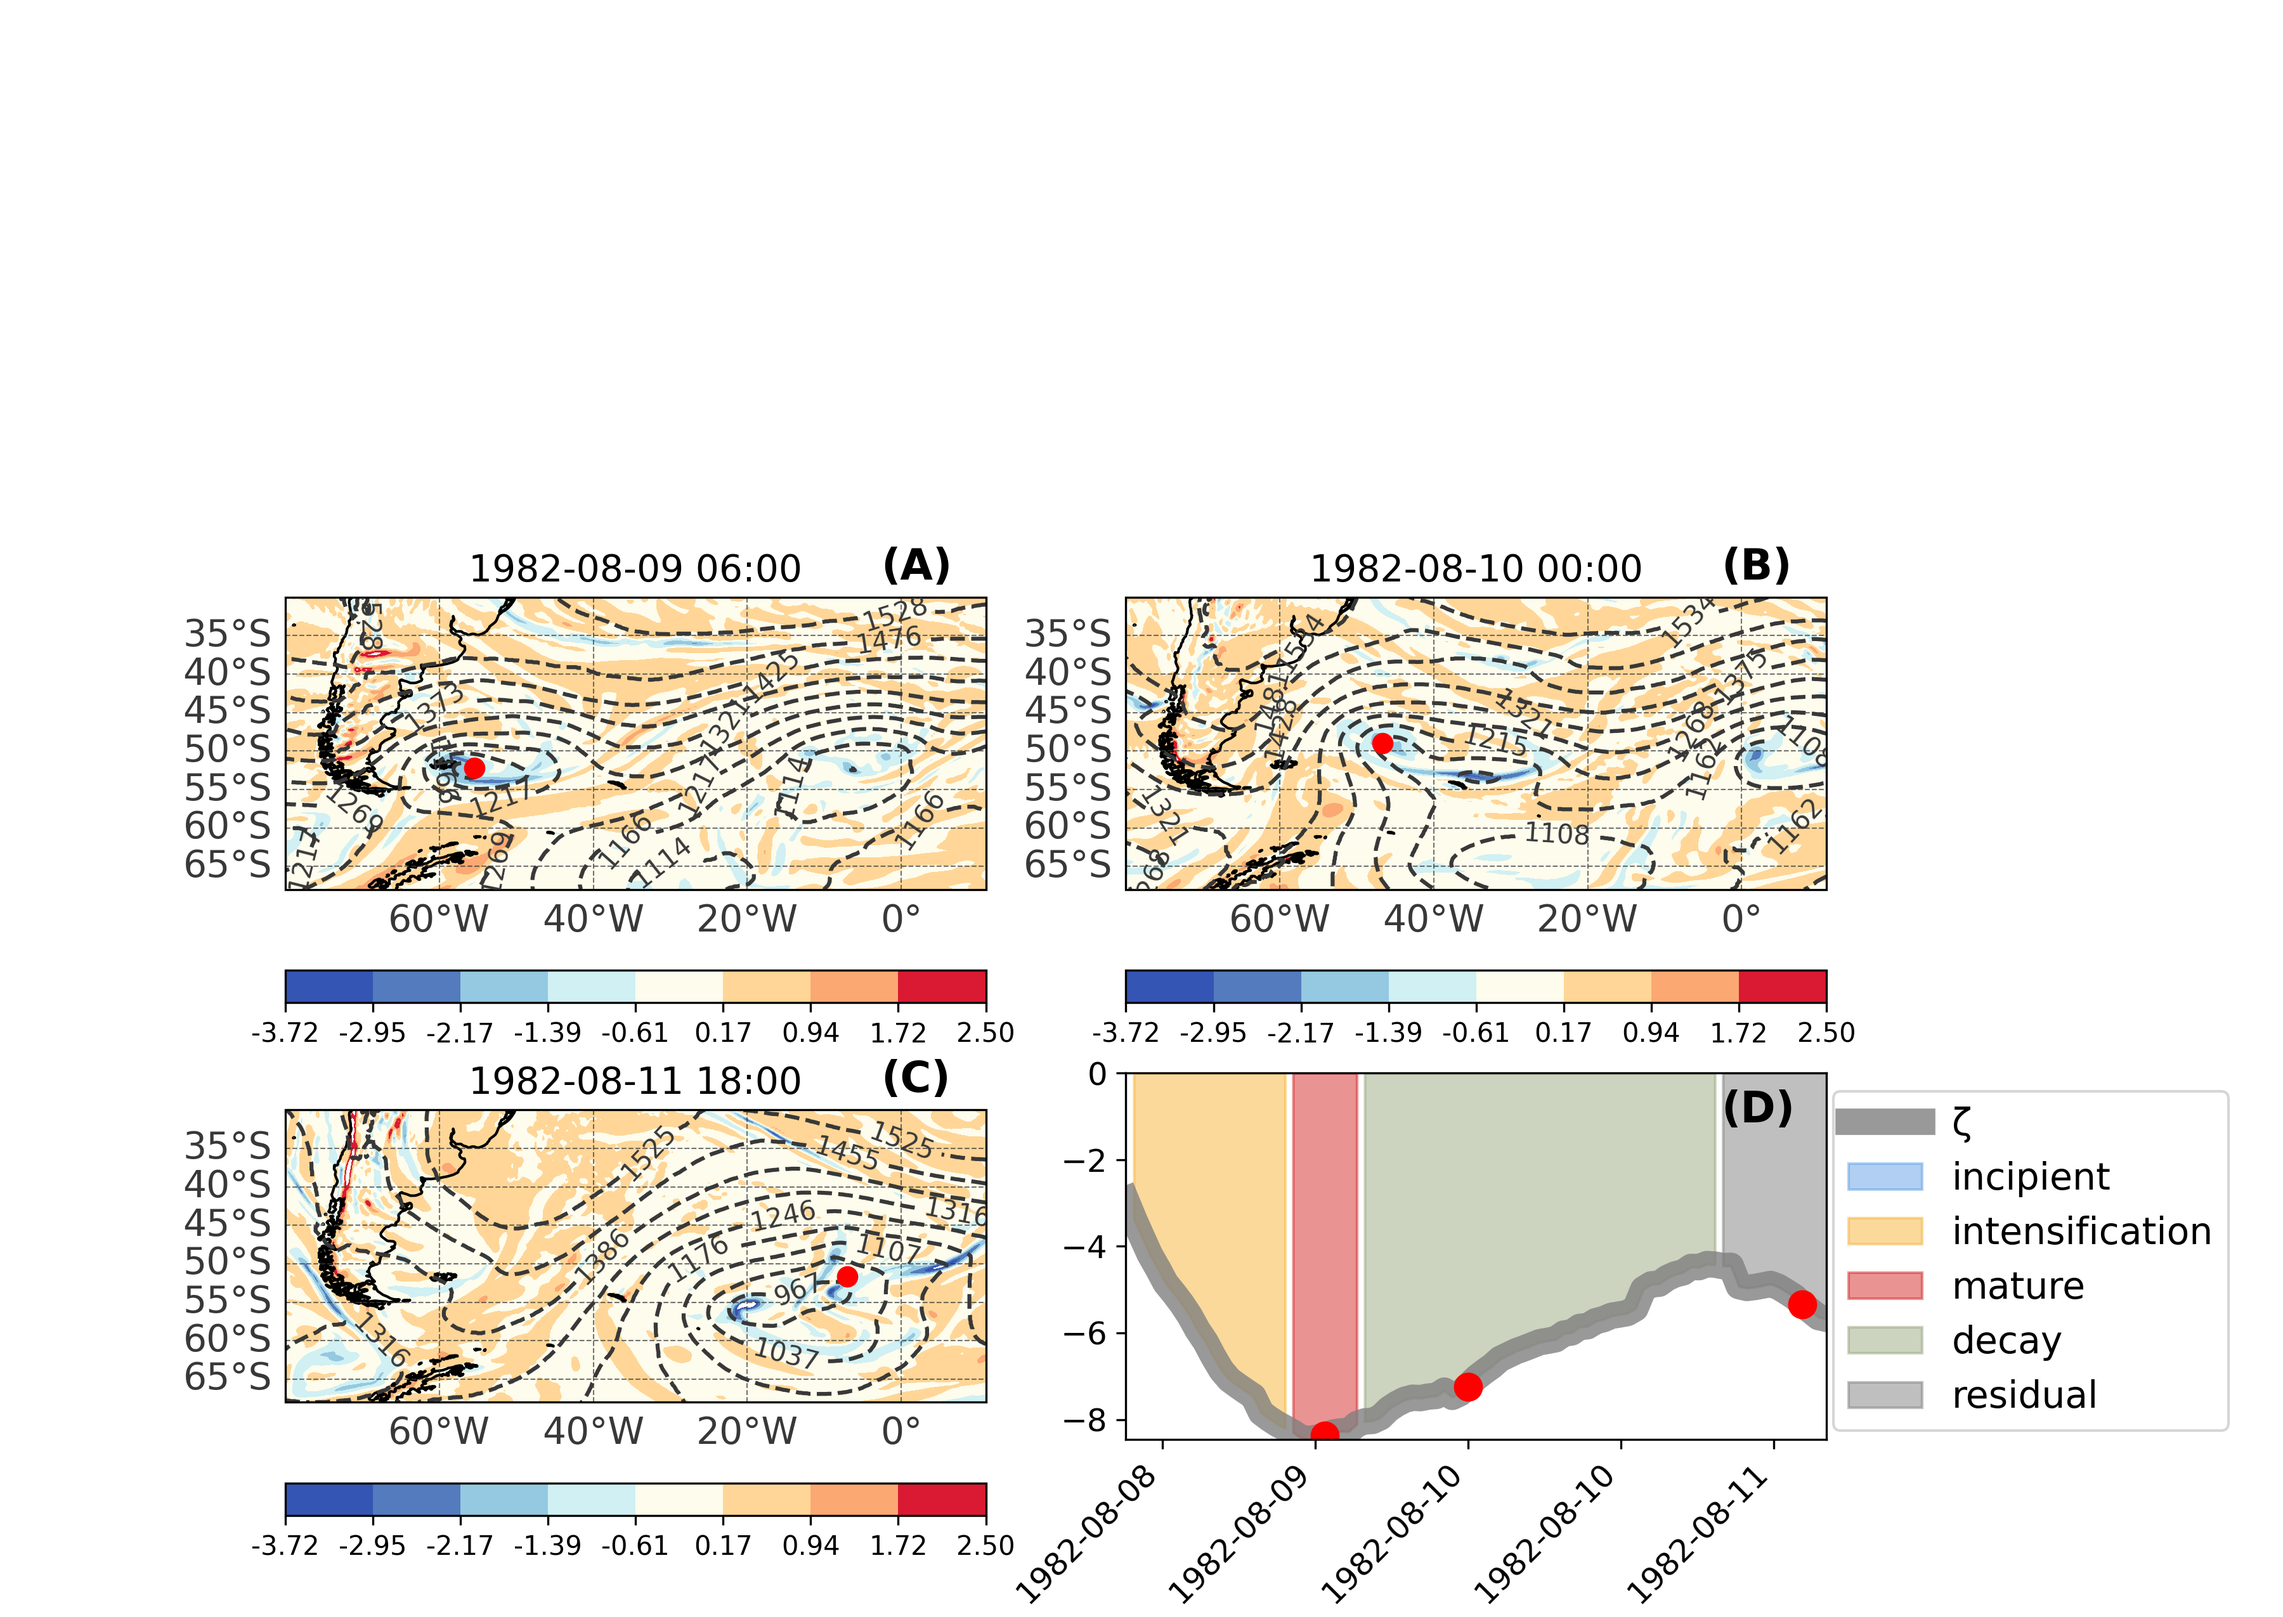
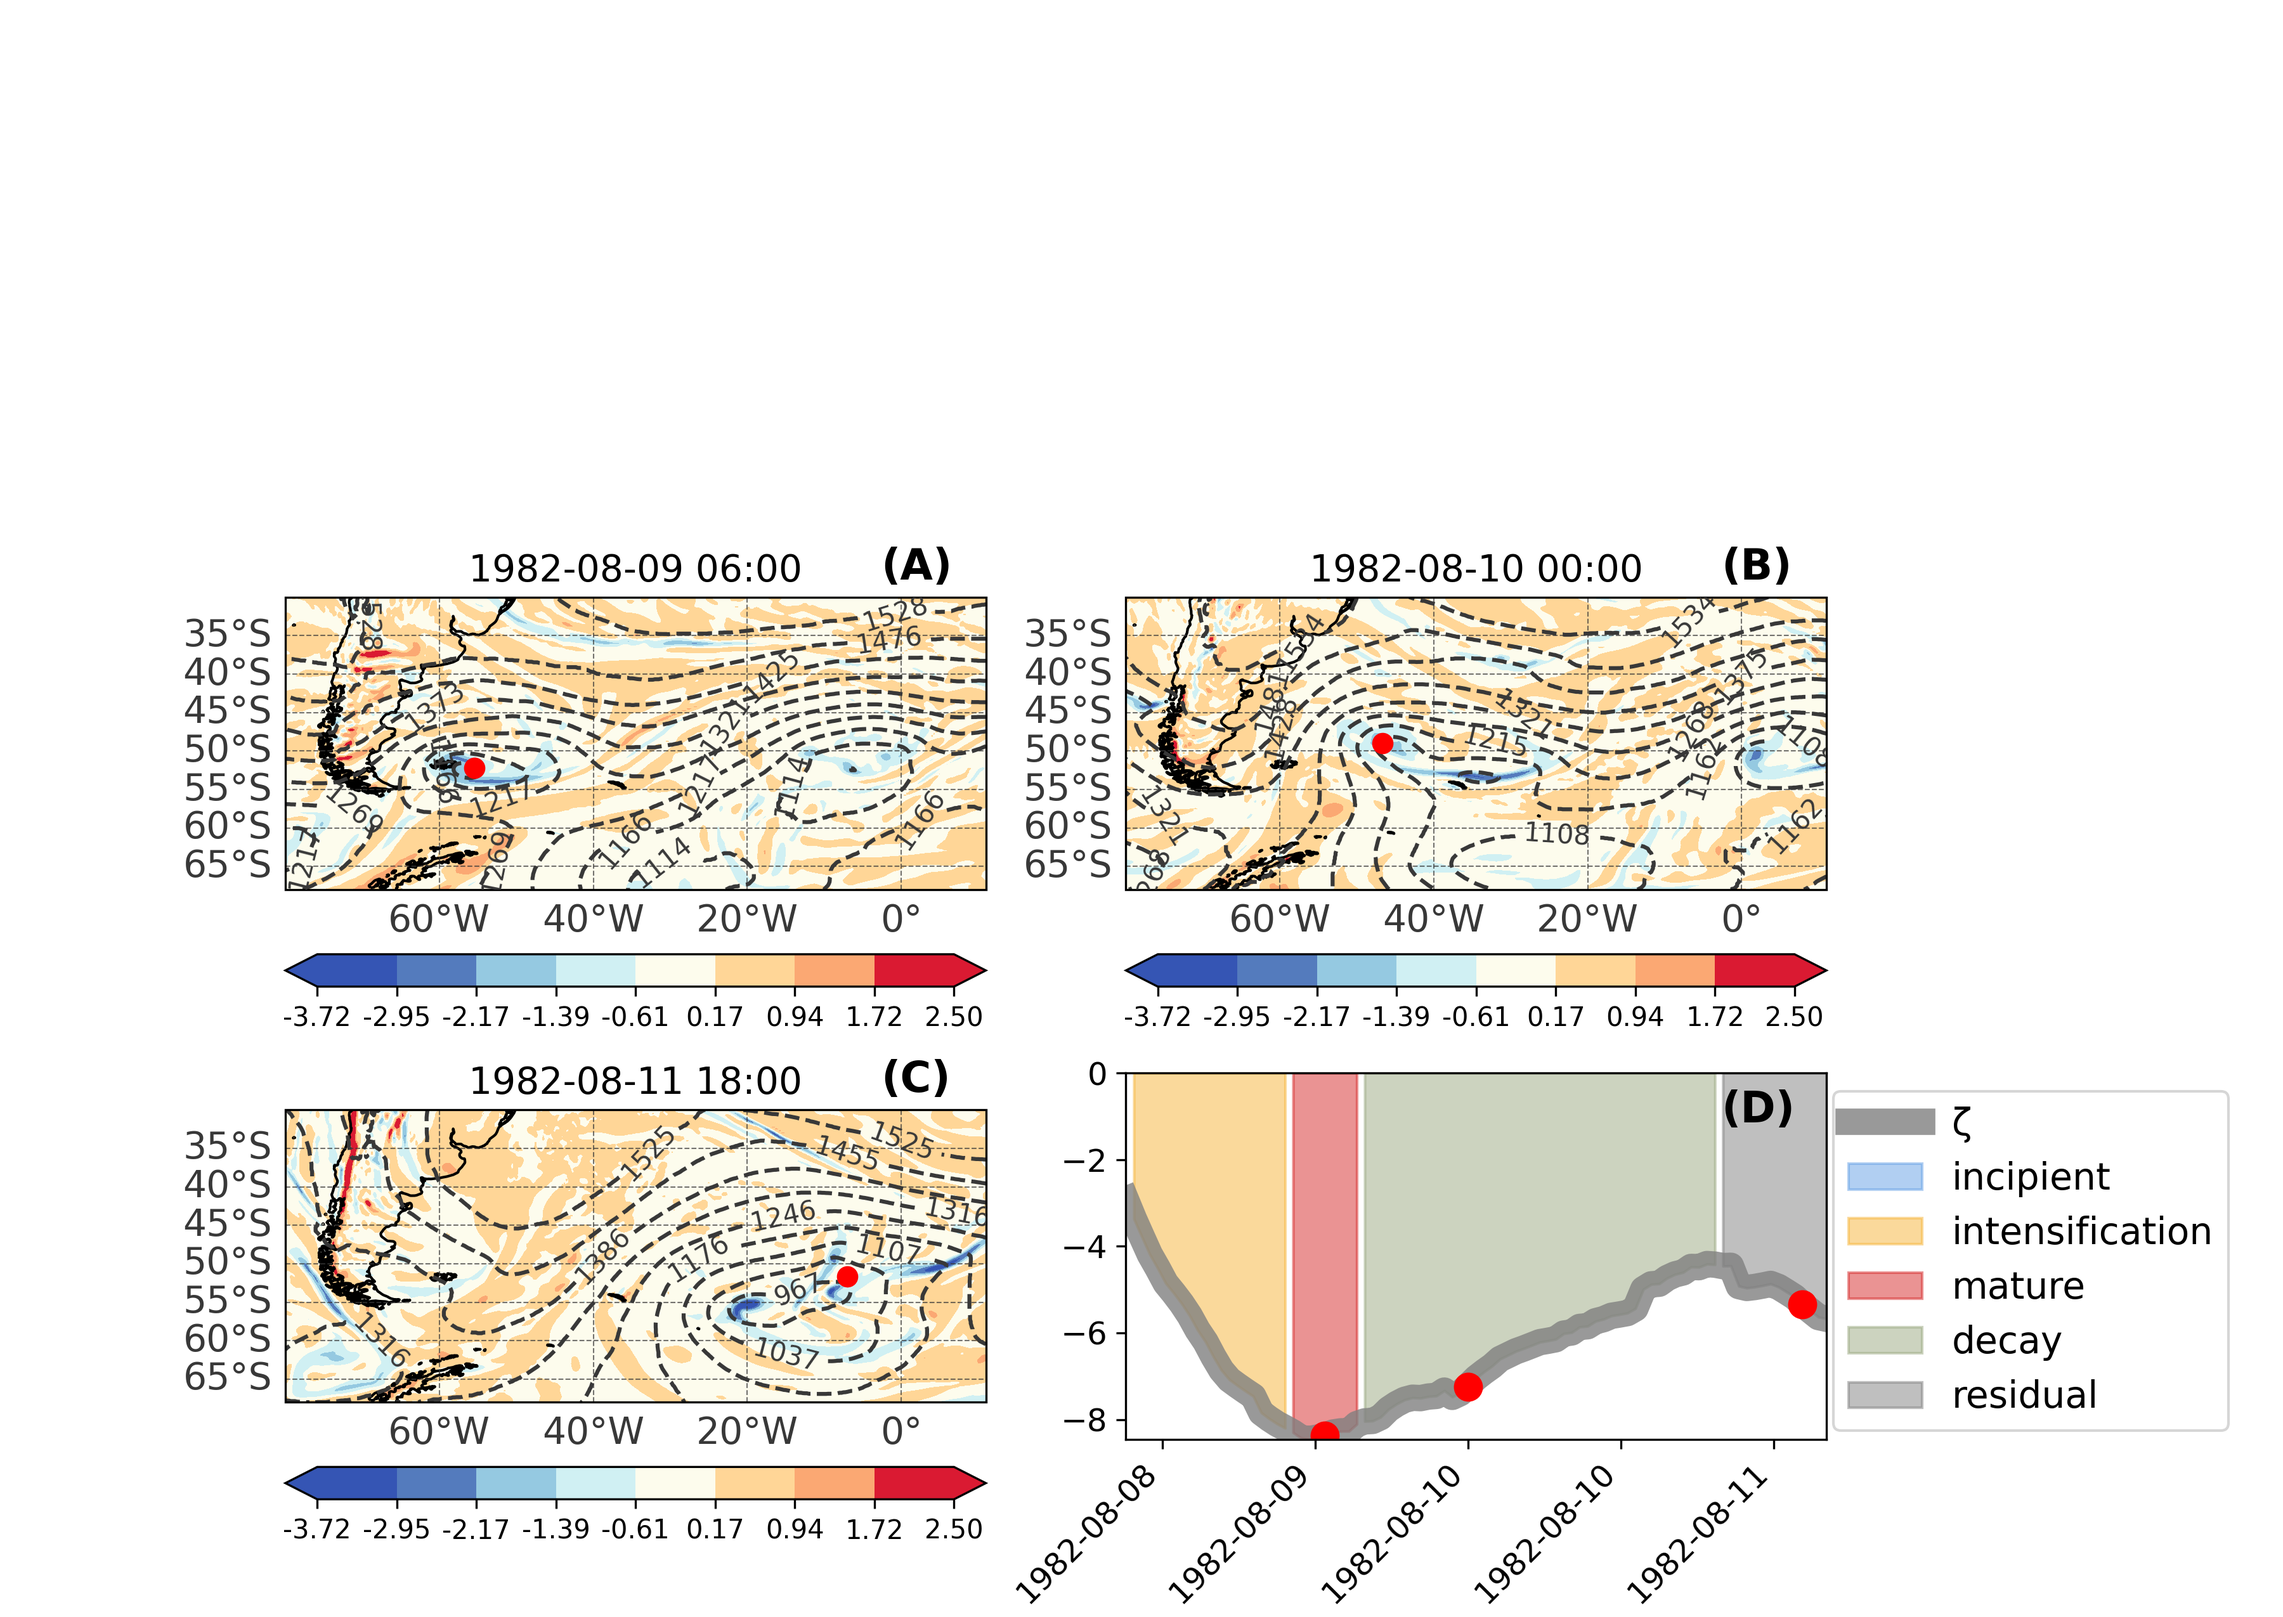
fixed colorbar

Changed region(s): [[0.4667, 0.5886, 0.8089, 0.6506], [0.1244, 0.8984, 0.4356, 0.9604], [0.1244, 0.5886, 0.4356, 0.6506]]

diff --git a/src_manuscript_life-cycle/residual_study_case.py b/src_manuscript_life-cycle/residual_study_case.py
@@ -6,7 +6,7 @@
 #    By: daniloceano <danilo.oceano@gmail.com>      +#+  +:+       +#+         #
 #                                                 +#+#+#+#+#+   +#+            #
 #    Created: 2024/01/31 08:54:11 by daniloceano       #+#    #+#              #
-#    Updated: 2024/01/31 18:35:43 by daniloceano      ###   ########.fr        #
+#    Updated: 2024/01/31 18:46:16 by daniloceano      ###   ########.fr        #
 #                                                                              #
 # **************************************************************************** #
 
@@ -161,7 +161,8 @@ def draw_box_map(ax, u, v, zeta, hgt, lat, lon, norm, levels):
     lon_sub = lon[::n]
 
     cmap = cmo.cm.balance
-    cf1 = ax.contourf(lon, lat, zeta, cmap=custom_cmap, norm=norm, levels=levels, transform=CRS) 
+    cf1 = ax.contourf(lon, lat, zeta, cmap=custom_cmap, norm=norm, levels=levels, transform=CRS,
+                      extend='both') 
     cs = ax.contour(lon, lat, hgt, levels=np.linspace(hgt.min(), hgt.max(), 11),
                     colors='#383838', linestyles='dashed', linewidths=1.5, transform=CRS)
     ax.clabel(cs, cs.levels, inline=True, fontsize=10, fmt='%1.0f')
@@ -304,7 +305,7 @@ def main():
         cf1 = draw_box_map(ax, u_850_time, v_850_time, zeta_850_time, hgt_850_time, lat, lon, norm, levels)
         
         # Manually create an axis for the colorbar
-        cb_ax = fig.add_axes([ax.get_position().x0, ax.get_position().y0 - 0.07, ax.get_position().width, 0.02])
+        cb_ax = fig.add_axes([ax.get_position().x0, ax.get_position().y0 - 0.06, ax.get_position().width, 0.02])
         cbar = plt.colorbar(cf1, cax=cb_ax, orientation='horizontal', extend='both')
         # cbar.set_label('Relative Vorticity [10^-4 s^-1]')
         cbar.ax.tick_params(labelsize=10)
